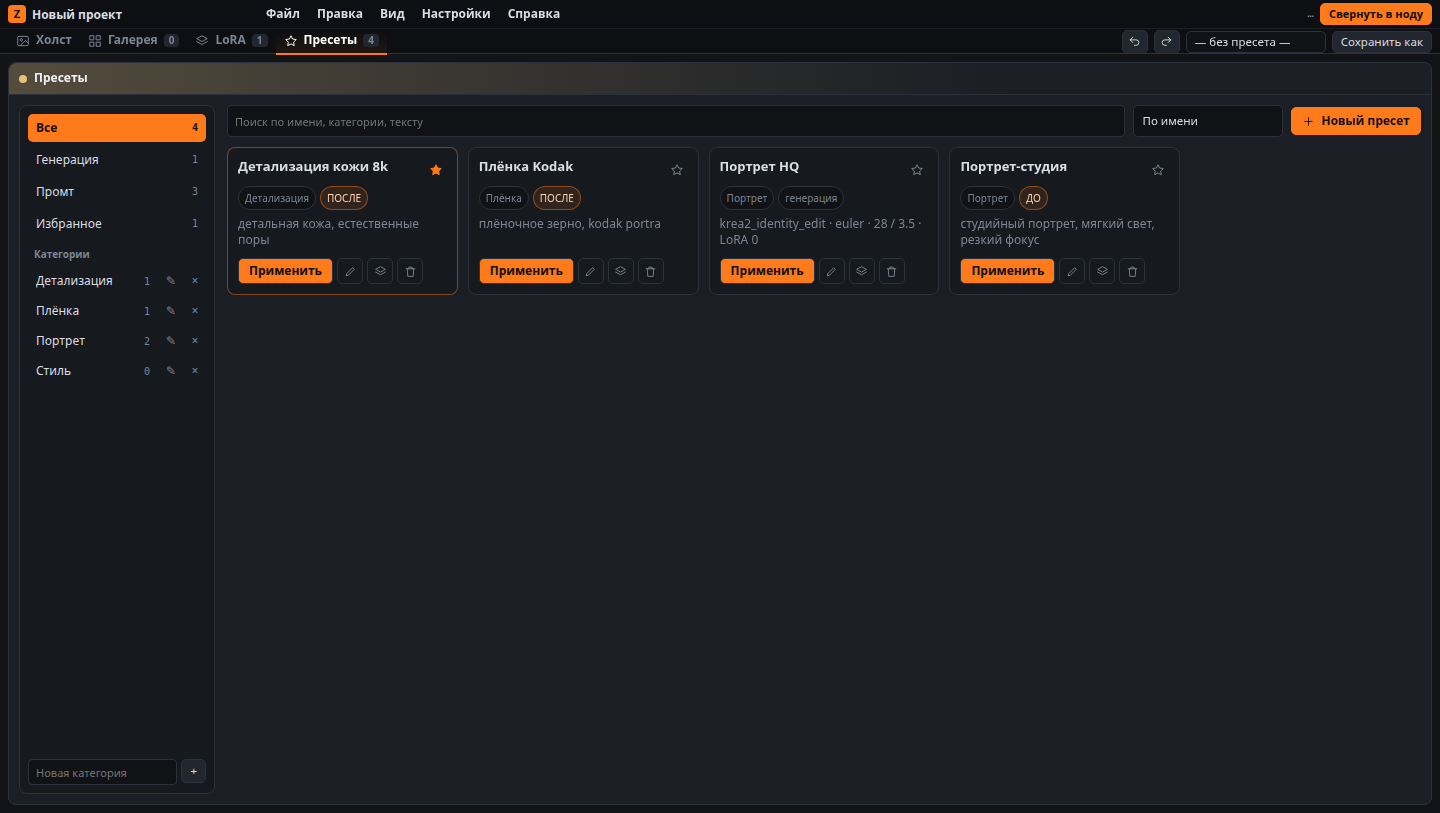
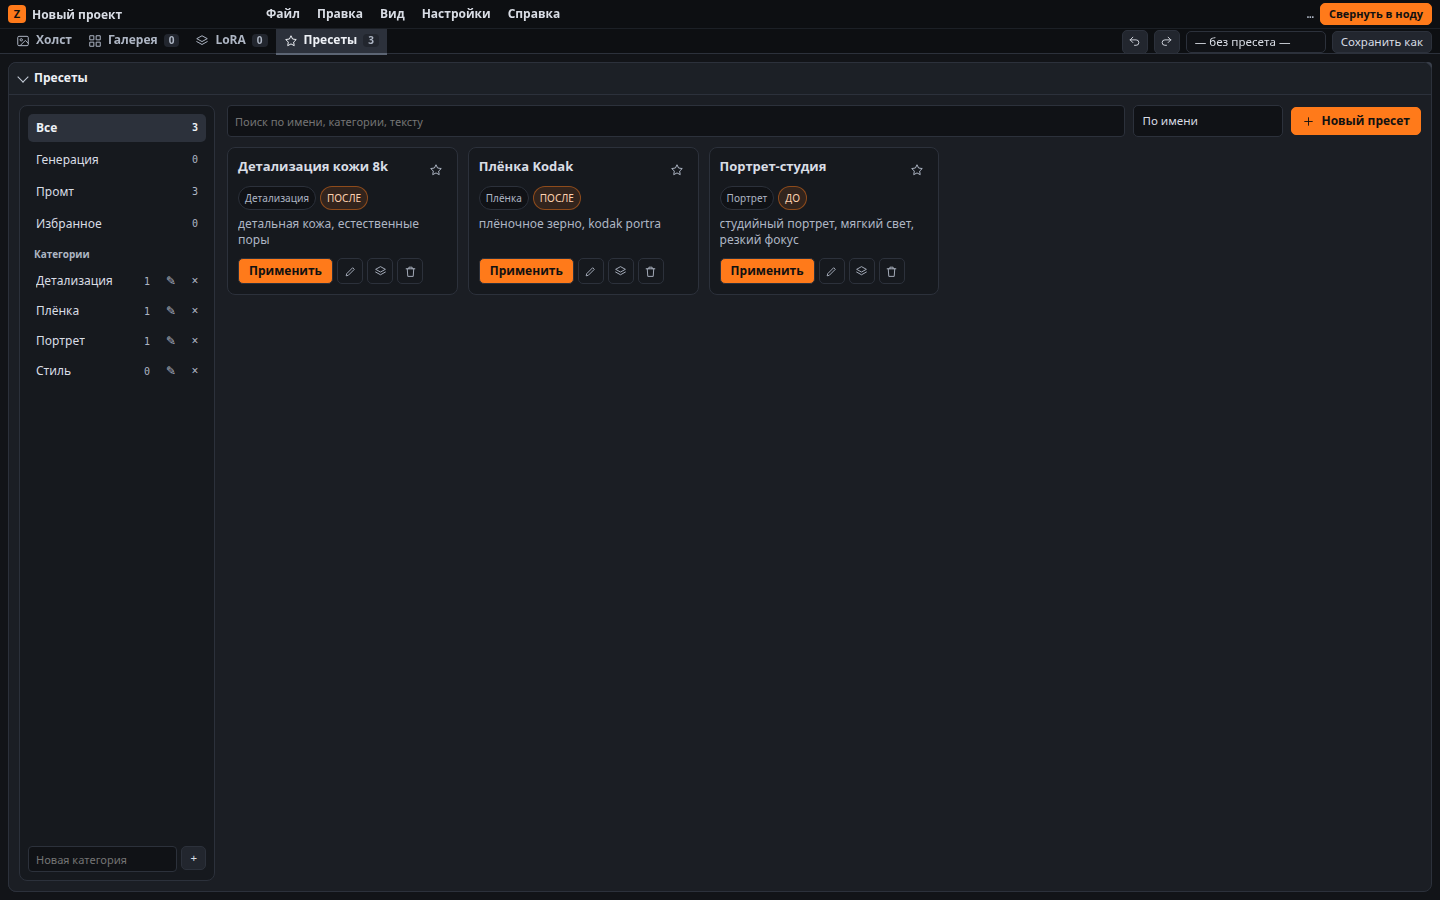
Drop the extra Krea mode switch and quiet the panel chrome.
Редактирование keeps only Правка and Персонаж по референсу. Создание hides denoise and the long layer note. Panel headers are one neutral colour, and the presets tab uses the chevron with a grey selection.

diff --git a/web/zeroimagestudio_app.js b/web/zeroimagestudio_app.js
@@ -1639,7 +1639,7 @@
       <label style="${c.loader === "diffusion" ? "" : "display:none"}">Тип CLIP ${sel("clip_type", cat.clip_types, c.clip_type)}</label>
       <label style="${c.loader === "diffusion" ? "" : "display:none"}">VAE ${sel("vae", cat.vaes, c.vae)}</label>
       <label>Тип весов ${sel("weight_dtype", cat.weight_dtypes, c.weight_dtype)}</label>
-      ${sug.unet ? `<div class="mu">Можно любой совместимый файл. Часто ставят ${escapeHtml([sug.unet, sug.clip, sug.vae].filter(Boolean).join(" · "))}.</div>` : ""}
+      ${sug.unet ? `<div class="mu" title="${escapeHtml("Часто ставят " + [sug.unet, sug.clip, sug.vae].filter(Boolean).join(" · "))}">Можно другой совместимый файл</div>` : ""}
     `;
     const methodRow = state.pipeline === "edit"
       ? `<label>Способ <select class="dd" data-file="method" style="width:100%">${["inpaint", "krea2_edit", "qwen_image_21", "qwen_image"].map((m) => `<option ${c.method === m ? "selected" : ""} value="${m}">${methodLabel(m)}</option>`).join("")}</select></label>`
@@ -1731,7 +1731,7 @@
     }).join("");
     $("lora-panel").innerHTML = `<div class="lora-stack">
       <button type="button" class="b" id="btn-lora-add">+ Добавить LoRA</button>
-      ${rows || `<div class="empty">В стеке пусто. Добавьте LoRA из папки models/loras — весь каталог здесь не показывается.</div>`}
+      ${rows || `<div class="empty" title="Весь каталог models/loras здесь не показывается. Добавьте нужный файл.">В стеке пусто.</div>`}
     </div>`;
     if (window.zeroImageStudioHydrateIcons) window.zeroImageStudioHydrateIcons($("lora-panel"));
     sealCollapsed($("lora-node"));
@@ -1922,7 +1922,7 @@
         <select id="seed-mode" class="dd" title="Режим сида"><option value="random" ${s.seedMode === "random" ? "selected" : ""}>случайный</option><option value="fixed" ${s.seedMode === "fixed" ? "selected" : ""}>фиксированный</option><option value="increment" ${s.seedMode === "increment" ? "selected" : ""}>+1</option></select></div>
       <span>Шаги</span><div class="row"><input id="steps-range" class="range" type="range" min="1" max="80" value="${U.finiteNumber(s.steps, 20)}"><input id="steps" class="f" style="width:48px" value="${U.finiteNumber(s.steps, 20)}"></div>
       <span>CFG</span><div class="row"><input id="cfg-range" class="range" type="range" min="0" max="12" step="0.1" value="${U.finiteNumber(s.cfg, 7)}"><input id="cfg" class="f" style="width:48px" value="${U.finiteNumber(s.cfg, 7)}"></div>
-      <span>Шум</span><div class="row" id="denoise-row"><input id="denoise-range" class="range" type="range" min="0" max="1" step="0.01" value="${U.finiteNumber(s.denoise, 1)}"><input id="denoise" class="f" style="width:48px" value="${U.finiteNumber(s.denoise, 1)}"></div>
+      <span id="denoise-label">Шум</span><div class="row" id="denoise-row"><input id="denoise-range" class="range" type="range" min="0" max="1" step="0.01" value="${U.finiteNumber(s.denoise, 1)}"><input id="denoise" class="f" style="width:48px" value="${U.finiteNumber(s.denoise, 1)}"></div>
       <div class="mu" id="denoise-note" style="grid-column:1 / -1"></div>
       <span>Сэмплер</span><select id="sampler" class="dd">${opt(cat.samplers, s.sampler)}</select>
       <span>Планировщик</span><select id="scheduler" class="dd">${opt(cat.schedulers, s.scheduler)}</select>
@@ -1944,12 +1944,17 @@
     const range = $("denoise-range");
     const num = $("denoise");
     const note = $("denoise-note");
-    if (range && num) {
+    const label = $("denoise-label");
+    const hideNoise = state.pipeline === "create";
+    if (label) label.hidden = hideNoise;
+    if (range && range.parentElement) range.parentElement.hidden = hideNoise;
+    if (note) note.hidden = hideNoise;
+    if (range && num && !hideNoise) {
       range.disabled = effect.locked;
       num.disabled = effect.locked;
       if (effect.locked) { range.value = "1"; num.value = "1"; }
     }
-    if (note) note.textContent = effect.note;
+    if (note && !hideNoise) note.textContent = effect.note;
     const neg = $("negative");
     const show = UX.showNegative(state.sampler.cfg);
     if (neg) neg.hidden = !show;
@@ -2330,7 +2335,7 @@
     const regionBody = region ? `
         <div class="insp-h">Мегапиксели</div>
         <div class="mp-row">${mpButtons}${mpCustom ? `<input id="g-mp-custom" class="f" inputmode="decimal" aria-label="Своё значение в мегапикселях" value="${Number(a.mp) || 1}" style="width:64px">` : ""}</div>
-        <div class="mu">Пропорцию берёт рамка на холсте. Углы и край рамки двигаются любым инструментом.</div>
+        <div class="mu" title="Пропорцию берёт рамка на холсте. Углы и край рамки двигаются любым инструментом.">Пропорция с рамки</div>
         <details class="insp-adv" id="insp-exact" ${a.exactOpen ? "open" : ""}>
           <summary>Точно</summary>
           <div class="insp-grid">
@@ -2662,22 +2667,28 @@
       renderModelWarn();
       return;
     }
-    const which = state.pipeline !== "edit" ? "create" : (kreaTaskId() === "identity" ? "identity" : "edit");
+    const editKrea = state.pipeline === "edit";
+    if (host) host.hidden = !editKrea;
+    if (tips) tips.hidden = !editKrea;
+    if (!editKrea) {
+      renderModelWarn();
+      return;
+    }
+    const task = kreaTaskId();
     if (host) {
       host.innerHTML = `
-        <button type="button" data-krea-family="create" class="${which === "create" ? "on" : ""}" aria-pressed="${which === "create"}">Создать</button>
-        <button type="button" data-krea-family="edit" class="${which === "edit" ? "on" : ""}" aria-pressed="${which === "edit"}">Править</button>
-        <button type="button" data-krea-family="identity" class="${which === "identity" ? "on" : ""}" aria-pressed="${which === "identity"}">Персонаж по референсу</button>`;
+        <button type="button" data-krea-task="general" class="${task === "general" ? "on" : ""}" aria-pressed="${task === "general"}">Правка</button>
+        <button type="button" data-krea-task="identity" class="${task === "identity" ? "on" : ""}" aria-pressed="${task === "identity"}">Персонаж по референсу</button>`;
     }
-    if (tips && state.pipeline === "create") tips.innerHTML = "";
-    else if (tips) {
+    if (tips) {
       const frame = editor ? generationSize() : { w: 0, h: 0 };
       const mp = (frame.w * frame.h) / 1e6;
       const over = mp > 2;
       const removal = U.requestsRemoval(state.prompt || "");
-      tips.innerHTML = `
-        <div class="${over ? "hot" : "mu"}">До 2 Мп для Krea Edit.${over ? ` Сейчас ${mp.toFixed(2)} — выше исходник может протекать, а объект двоиться.` : ""}</div>
-        <div class="${removal ? "hot" : "mu"}">Для удаления объекта — модель Raw, CFG около 3, около 20 шагов.</div>`;
+      const limit = over ? `Сейчас ${mp.toFixed(2)} Мп` : "До 2 Мп";
+      const limitTitle = "Выше 2 Мп исходник может протекать, а объект двоиться.";
+      const drop = removal ? `<div class="mu" title="Для удаления объекта лучше модель Raw, CFG около 3 и около 20 шагов.">Удаление: Raw, CFG ~3</div>` : "";
+      tips.innerHTML = `<div class="${over ? "hot" : "mu"}" title="${escapeHtml(limitTitle)}">${limit}</div>${drop}`;
     }
     renderModelWarn();
   }

diff --git a/web/zeroimagestudio.css b/web/zeroimagestudio.css
@@ -89,7 +89,7 @@ select.dd { appearance: none; min-width: 0; max-width: 100%; }
 }
 .nh {
   height: 32px; border-radius: 8px 8px 0 0; display: flex; align-items: center; gap: 7px; padding: 0 10px;
-  background: linear-gradient(90deg, color-mix(in srgb, var(--c) 28%, #1b1e24), #1b1e24 70%);
+  background: #1c2026;
   border-bottom: 1px solid var(--ln); font-weight: 700; font-size: 12px; color: #eef1f6; flex: none;
   flex-wrap: nowrap; min-width: 0; overflow: hidden; white-space: nowrap; cursor: grab;
 }
@@ -359,7 +359,8 @@ input.range::-webkit-slider-thumb { -webkit-appearance: none; width: 12px; heigh
 .krea-tips { display: flex; flex-direction: column; gap: 2px; font-size: 10.5px; line-height: 1.35; }
 .krea-tips .hot { color: #e7c27a; }
 .krea-task button { font-size: 11px; line-height: 1.25; height: auto; min-height: 26px; padding: 4px 6px; white-space: normal; }
-.krea-task button[data-krea-family="identity"] { grid-column: 1 / -1; }
+.krea-task { grid-template-columns: 1fr; }
+.krea-task button[data-krea-task="identity"] { white-space: normal; }
 .lora-row .task-badge {
   flex: none; font-size: 9px; font-weight: 700; line-height: 16px; padding: 0 4px; border-radius: 3px;
   color: #ffd2b0; background: rgba(255, 122, 26, .18); border: 1px solid rgba(255, 122, 26, .45);
@@ -682,9 +683,9 @@ body[data-pipe="create"] [data-for="edit"] { display: none; }
   display: flex; align-items: center; gap: 6px; width: 100%; text-align: left;
   height: 28px; padding: 0 8px; border-radius: 5px; color: var(--tx); background: transparent;
 }
-.preset-side button.nav.on { background: var(--ac); color: #111; font-weight: 700; }
+.preset-side button.nav.on { background: #2c313b; color: #eef1f6; font-weight: 700; }
 .preset-side button.nav .c { margin-left: auto; font-family: "IBM Plex Mono", ui-monospace, monospace; font-size: 10px; color: var(--mu); }
-.preset-side button.nav.on .c { color: #111; }
+.preset-side button.nav.on .c { color: #eef1f6; }
 .preset-cats { display: flex; flex-direction: column; gap: 2px; overflow: auto; min-height: 0; flex: 1; }
 .preset-cat { display: flex; align-items: center; gap: 2px; }
 .preset-cat .nav { flex: 1; min-width: 0; }

diff --git a/web/zeroimagestudio.html b/web/zeroimagestudio.html
@@ -6,7 +6,7 @@
   <title>ZeroImageStudio</title>
   <link rel="stylesheet" href="zeroimagestudio.css">
   <script>window.__ZEROIMAGESTUDIO_PAGE = true;</script>
-  <script src="icons.js?v=tools"></script>
+  <script src="icons.js?v=polish"></script>
 </head>
 <body data-tab="canvas">
 <header class="chrome" id="chrome">
@@ -281,7 +281,7 @@
         </span>
       </div>
       <div class="nb" style="gap:3px">
-        <div class="layers-note mu" id="layers-note" hidden>Весь холст в режиме Создание заменяет кадр. Отдельные слои остаются для области и для Редактирования. Прошлый кадр — в отмене и в галерее.</div>
+        <div class="layers-note mu" id="layers-note" hidden title="Весь холст заменяется новым кадром. Прошлый остаётся в отмене и в галерее.">Кадр заменяется</div>
         <div class="row layer-blend" style="margin-bottom:4px">
           <select id="layer-blend" class="dd"></select>
           <span class="mu">Непрозр.</span>
@@ -338,10 +338,10 @@ try {
   }
 } catch (e) {}
 </script>
-<script src="zeroimagestudio_size.js?v=tools"></script>
-<script src="zeroimagestudio_util.js?v=tools"></script>
-<script src="zeroimagestudio_models.js?v=tools"></script>
-<script src="zeroimagestudio_ux.js?v=tools"></script>
-<script src="zeroimagestudio_app.js?v=tools"></script>
+<script src="zeroimagestudio_size.js?v=polish"></script>
+<script src="zeroimagestudio_util.js?v=polish"></script>
+<script src="zeroimagestudio_models.js?v=polish"></script>
+<script src="zeroimagestudio_ux.js?v=polish"></script>
+<script src="zeroimagestudio_app.js?v=polish"></script>
 </body>
 </html>

diff --git a/README.md b/README.md
@@ -167,13 +167,13 @@ git clone https://github.com/zeroleloushe/ZeroImageStudio.git
 
 - Левая панель зависит от режима. В правке сверху перемещение, рамка генерации, маска и её ластик, выделение и кадрирование, затем рука и масштаб. Кисть, ластик пикселей, пипетка и трансформ лежат в «Ещё». В создании нет маски и рамки генерации. Выделение переносится в маску кнопкой «В маску». Кадрирование только на панели инструментов.
 
-- Референсы подписаны ролью («Сцена», «Человек», «Только для LLM», «Не используется»). В Создании они по-прежнему идут только в LLM. У Krea один выбор модели и сегмент «Создать / Править / Персонаж по референсу». Рядом с «Сгенерировать» — «Новый слой / Заменить» и список того, чего не хватает. Шум Krea зафиксирован на 1, негатив виден только при CFG больше 1. В инспекторе правки есть «Что видит модель». Панель сворачивается шевроном. В меню Вид — «Фокус на холсте» и «Всё». Настройки разбиты на «Сервисы», «Модели» и «Интерфейс».
+- Референсы подписаны ролью («Сцена», «Человек», «Только для LLM», «Не используется»). В Создании они по-прежнему идут только в LLM. У Krea один выбор модели. Режим задаёт верхний переключатель, а в Редактировании остаётся «Правка / Персонаж по референсу». Рядом с «Сгенерировать» — «Новый слой / Заменить» и список того, чего не хватает. Шум Krea зафиксирован на 1, негатив виден только при CFG больше 1. В инспекторе правки есть «Что видит модель». Панель сворачивается шевроном. В меню Вид — «Фокус на холсте» и «Всё». Настройки разбиты на «Сервисы», «Модели» и «Интерфейс».
 
 ![Холст 1440](docs/ux-edit-1440.png)
 
 ![Курсор кисти](docs/brush-cursor.png)
 - Несохранённый проект предупреждает при сворачивании и при закрытии вкладки. Автосохранение — раз в 3 минуты в `user/zeroimagestudio`.
-- Список моделей зависит от режима. В **Создании** — Krea 2 и Qwen Image 2.1. В **Редактировании** — Krea 2 Edit V2 и Qwen Image 2.1. У Krea 2 Edit V2 переключатель **Правка** / **Персонаж** (полное имя «Персонаж по референсу» — в подсказке). У каждой подсказки в `hints/models.json` есть `pipelines`. Переключение режима помнит выбранную модель отдельно.
+- Список моделей зависит от режима. В **Создании** — Krea 2 и Qwen Image 2.1. В **Редактировании** — Krea 2 Edit V2 и Qwen Image 2.1. У Krea 2 Edit V2 переключатель **Правка** / **Персонаж по референсу**. В Создании этого переключателя нет. У каждой подсказки в `hints/models.json` есть `pipelines`. Переключение режима помнит выбранную модель отдельно.
 - Референсы видны в обоих режимах. В Создании они не попадают в граф диффузии и служат только картинками для LLM («Описать изображение», «Улучшить»). В Редактировании Qwen Image 2.1 берёт до 16, в промте `<image1>`…. Krea в режиме «Правка» отправляет только холст. «Персонаж по референсу» берёт холст как сцену и первый референс как человека; без сцены этот референс — единственный кадр. Клик по карточке выбирает кадр для LLM.
 - Панель «Промт» по умолчанию компактная: поле на две строки, пока печатаешь растёт до четырёх и дальше прокручивается, **Сгенерировать** стоит справа той же высоты (Ctrl+Enter в подсказке кнопки). Шеврон рядом открывает полный вид: негатив, пресеты, LLM. Обратно — та же кнопка, подсказка «Свернуть промт». В компактном виде активные пресеты — одна тонкая строка, или ничего. Выбор пишется в этом браузере (`zeroimagestudio.promptMode`) и не связан с цветной точкой, которая сворачивает панель до шапки. Освободившееся место забирает холст.
 - Вкладка **Пресеты** — менеджер карточек: слева категории («Все», «Генерация», «Промт», «Избранное» и свои), сверху поиск и «Новый пресет», справа сетка. У сниппета на карточке бейдж ДО/ПОСЛЕ и короткий текст, у пресета генерации — модель, сэмплер, шаги, CFG и число LoRA. Правка открывается боковой панелью. Старые пресеты без категории попадают в «Общее». Кнопка **Пресеты промта** в поле промта по-прежнему включает сниппеты. Они хранятся в `user/zeroimagestudio/prompt_presets.json`.
